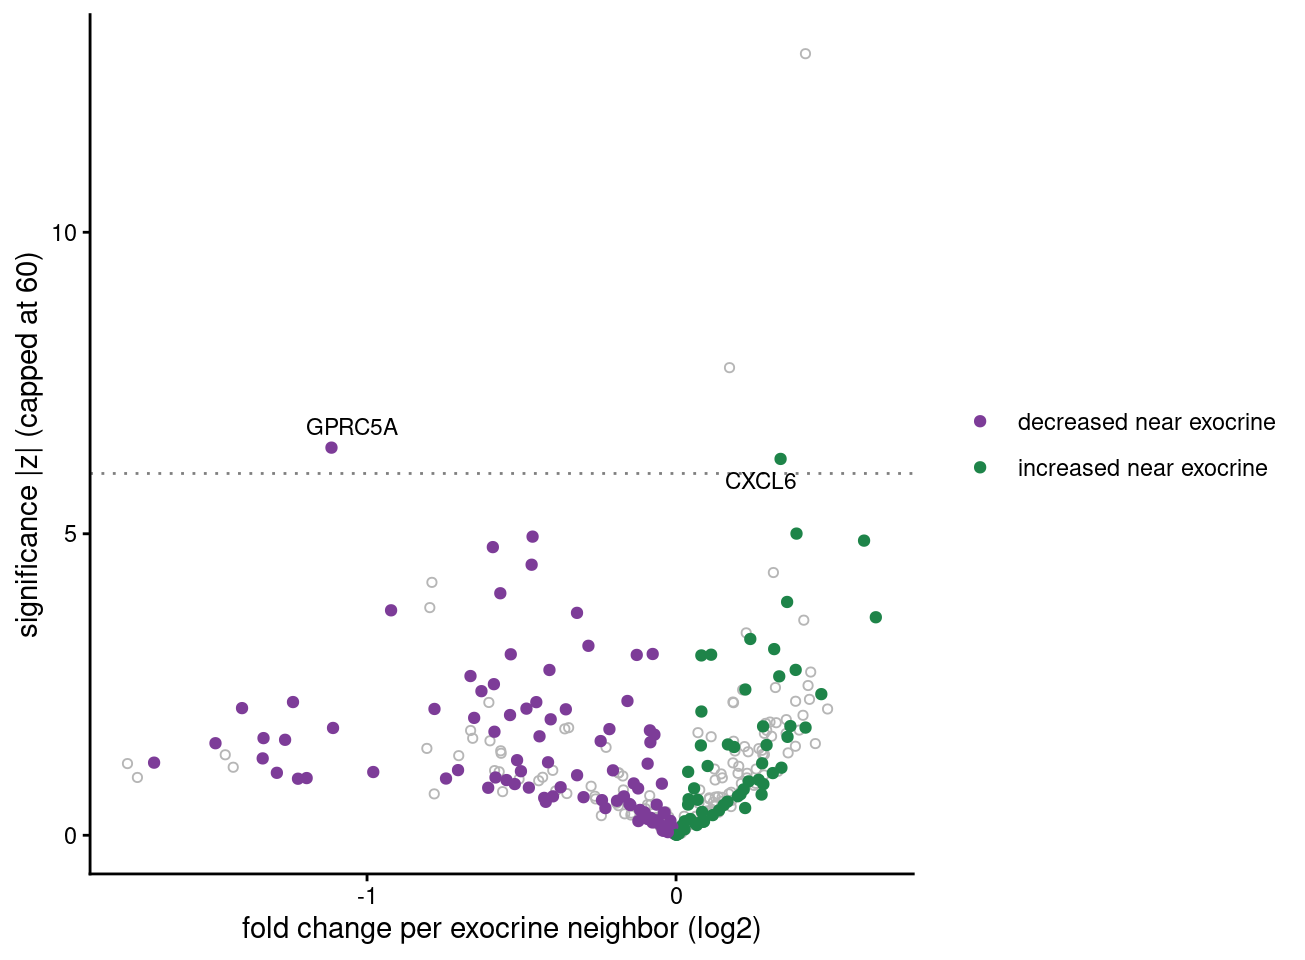
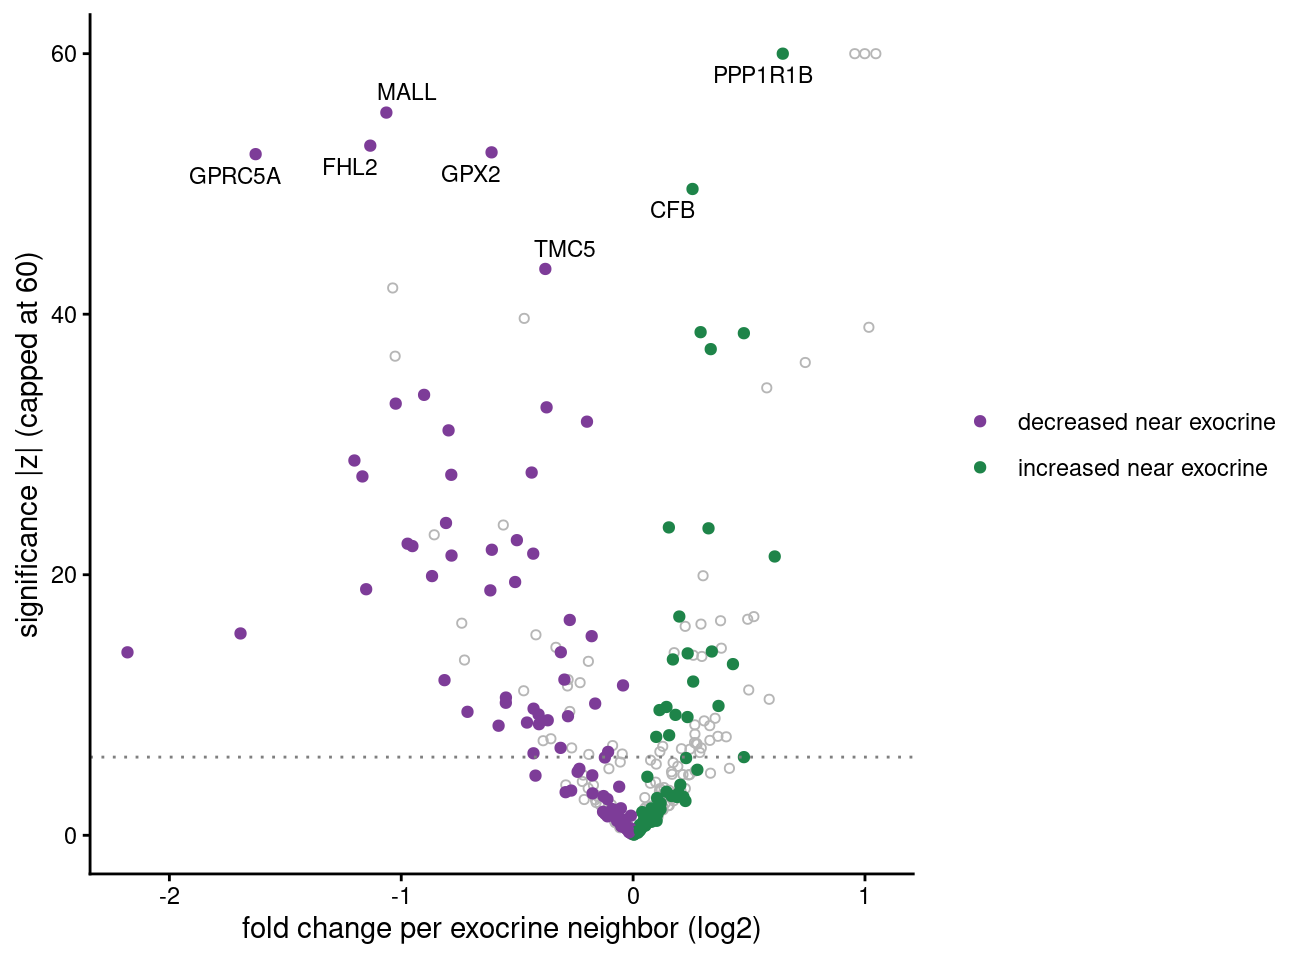
Fix volcano to test the exocrine coefficient with the docs guards

diff --git a/examples/xenium_pancreas_membrane_377_full/pancreas_generative.md b/examples/xenium_pancreas_membrane_377_full/pancreas_generative.md
@@ -396,10 +396,11 @@ What this means for downstream analysis is best seen the way
 the corrected counts, every gene of the target type is tested for
 expression change with each source’s proximity, jointly across all
 sources so correlated neighborhoods do not cross-attribute. Genes with
-essentially none of their content removed as transfer (filled points)
-are unambiguous expression changes — the induced interface program
-rising (green) and the ductal identity program falling (purple) — while
-genes entangled with the transfer split stay open grey:
+essentially none of their content removed as transfer and no meaningful
+share of the source’s transfer profile (filled points) are unambiguous
+expression changes — the induced interface program rising (green) and
+the ductal identity program falling (purple) — while genes entangled
+with the transfer split stay open grey:
 
 ``` r
 duct_cells <- model$composition("Exocrine epithelial",
@@ -409,9 +410,16 @@ E <- sapply(duct_pairs$source, function(src) pmin(setNames(
   cellAdmixCore:::.celladmix_source_exposure_counts(
     cells_xy, cell_annotation, 15L)$counts[, src],
   as.character(cells_xy$cell_id))[duct_cells], 4))
+removed_frac_g <- 1 - Matrix::rowSums(after[, duct_cells]) /
+  pmax(Matrix::rowSums(before[, duct_cells]), 1)
 K <- after[, duct_cells]
 t_kept <- Matrix::colSums(K)
+ok_c <- t_kept > 10
+K <- K[, ok_c]
+E <- E[ok_c, , drop = FALSE]
+t_kept <- t_kept[ok_c]
 X <- cbind(1, E)
+exo_ix <- 1L + match("Exocrine epithelial", duct_pairs$source)
 fit_gene <- function(y) {
   beta <- c(log(max(sum(y), 0.5) / sum(t_kept)), numeric(ncol(E)))
   for (it in 1:25) {
@@ -428,25 +436,32 @@ fit_gene <- function(y) {
     max(length(y) - ncol(X), 1), 1)
   se <- sqrt(pmax(diag(solve(crossprod(X, X * as.numeric(mu)) +
     diag(1e-8, ncol(X)))), 1e-300) * disp)
-  c(beta[[2]], beta[[2]] / se[[2]])  # exocrine coefficient and its z
+  c(beta[[exo_ix]], beta[[exo_ix]] / se[[exo_ix]])
 }
-removed_frac_g <- 1 - Matrix::rowSums(after[, duct_cells]) /
-  pmax(Matrix::rowSums(before[, duct_cells]), 1)
 res <- t(sapply(rownames(K), function(g) {
   y <- as.numeric(K[g, ])
   if (sum(y) < 100) return(c(NA, NA))
   out <- fit_gene(y)
   if (is.null(out)) c(NA, NA) else out
 }))
+# the transfer-profile guard: the gene's share of the exocrine cells'
+# interface-local profile, with ductal-owned genes zeroed
+S_cells <- names(cell_types)[!is.na(cell_types) &
+  cell_types == "Exocrine epithelial"]
+dist_T <- cellAdmixCore:::.celladmix_source_nearest_distance(
+  cells_xy, cell_annotation)[, "Ductal/tumor epithelial"]
+psi <- cellAdmixCore:::.celladmix_audit_interface_profile(before, S_cells,
+  dist_T)
+psi[names(top_type)[top_type == "Ductal/tumor epithelial"]] <- 0
 vol <- data.frame(gene = rownames(K), lfc = res[, 1] / log(2),
   z = pmin(abs(res[, 2]), 60), dir = sign(res[, 1]),
   stringsAsFactors = FALSE)
-vol$clean <- removed_frac_g[vol$gene] < 0.10
+vol$clean <- removed_frac_g[vol$gene] < 0.10 & psi[vol$gene] * 1e4 < 20
 vol <- vol[!is.na(vol$z), ]
 vol$tier <- ifelse(!vol$clean, "transfer-entangled",
   ifelse(vol$dir > 0, "increased near exocrine", "decreased near exocrine"))
-lab <- vol[vol$clean & vol$z > 6, ]
-lab <- lab[order(-lab$z), ][1:8, ]
+lab <- vol[vol$clean, ]
+lab <- lab[order(-lab$z), ][1:7, ]
 ggplot(vol, aes(lfc, z)) +
   geom_point(data = vol[!vol$clean, ], shape = 1, size = 1.3,
     color = "#b6b6b6") +
@@ -462,12 +477,11 @@ ggplot(vol, aes(lfc, z)) +
 
 <img src="pancreas_generative_files/figure-gfm/volcano-1.png" alt="" width="652.8" style="display: block; margin: auto;" />
 
-The evidence behind these calls is a proportionality test.The evidence
-behind these calls is a proportionality test. Transferred material
-samples the source’s transcriptome, so a gene’s excess in ductal cells
-should be proportional to its share of the exocrine profile; genes above
-the significance bound are the ductal cells’ own response. Each point
-below is one exocrine-owned gene:
+The evidence behind these calls is a proportionality test. Transferred
+material samples the source’s transcriptome, so a gene’s excess in
+ductal cells should be proportional to its share of the exocrine
+profile; genes above the significance bound are the ductal cells’ own
+response. Each point below is one exocrine-owned gene:
 
 ``` r
 exp_cells <- duct_cells[expo[duct_cells] > 0]
@@ -475,10 +489,6 @@ un_cells <- duct_cells[expo[duct_cells] == 0]
 t_exp <- sum(Matrix::colSums(before[, exp_cells]))
 t_un <- sum(Matrix::colSums(before[, un_cells]))
 gset <- names(top_type)[top_type == "Exocrine epithelial"]
-S_cells <- names(cell_types)[!is.na(cell_types) &
-  cell_types == "Exocrine epithelial"]
-dist_T <- cellAdmixCore:::.celladmix_source_nearest_distance(
-  cells_xy, cell_annotation)[, "Ductal/tumor epithelial"]
 m_exp <- Matrix::rowSums(before[gset, exp_cells])
 m_un <- Matrix::rowSums(before[gset, un_cells])
 excess <- m_exp - m_un / t_un * t_exp
@@ -537,15 +547,14 @@ so the markers superimpose. The dashed curve is the largest excess still
 consistent with proportional transfer, allowing counting noise and a 15%
 profile error.
 
-The consequence is visible gene by gene.The consequence is visible gene
-by gene. AMY2A sits on the diagonal above — the largest exocrine
-transfer channel — and the correction flattens its exposure gradient to
-the unexposed level. CFTR sits far above the diagonal, and the
-correction preserves its gradient, removing only the transferred share.
-The same fitted model can also derive the opposite policy —
-`model$correct(retain_induced = FALSE)` removes the fitted induced share
-along with the contamination — which shows directly what retention
-protects, at no change on the transferred gene:
+The consequence is visible gene by gene. AMY2A sits on the diagonal
+above — the largest exocrine transfer channel — and the correction
+flattens its exposure gradient to the unexposed level. CFTR sits far
+above the diagonal, and the correction preserves its gradient, removing
+only the transferred share. The same fitted model can also derive the
+opposite policy — `model$correct(retain_induced = FALSE)` removes the
+fitted induced share along with the contamination — which shows directly
+what retention protects, at no change on the transferred gene:
 
 ``` r
 correction_noind <- model$correct(name = "generative_noind",
